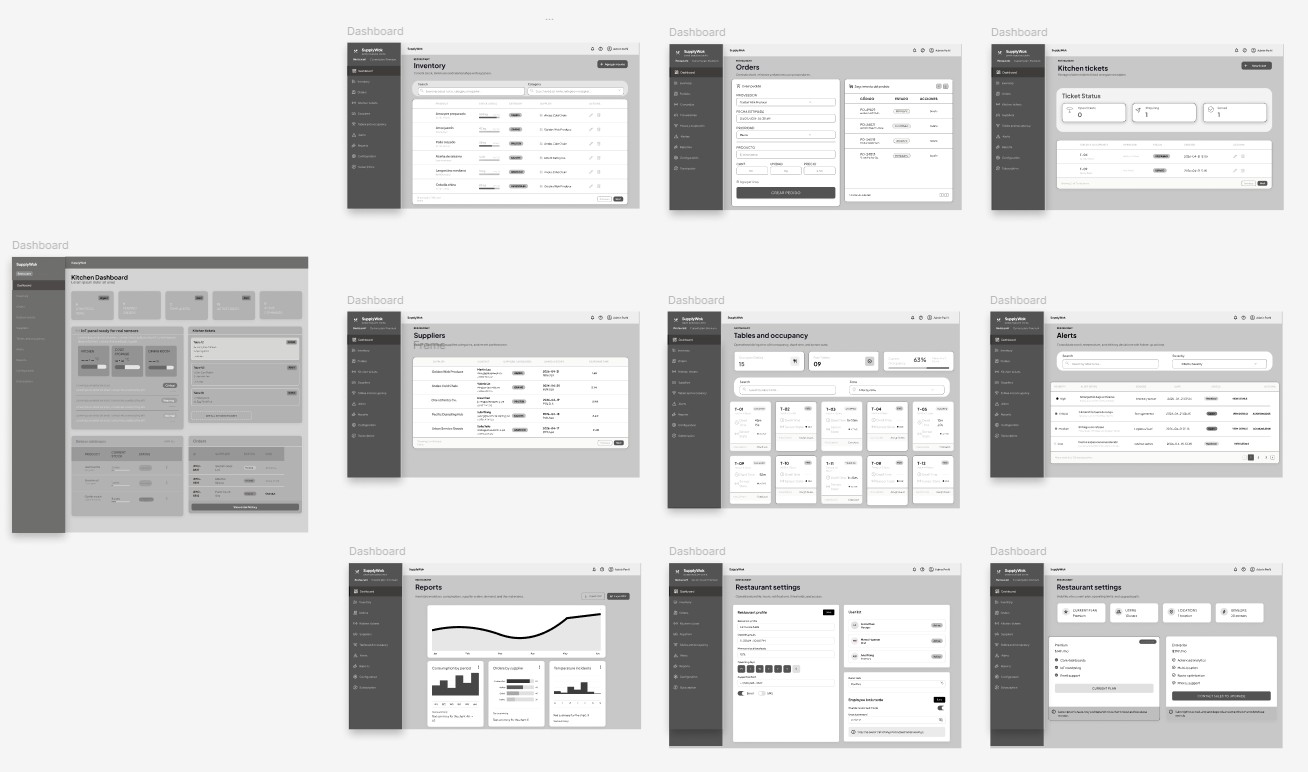
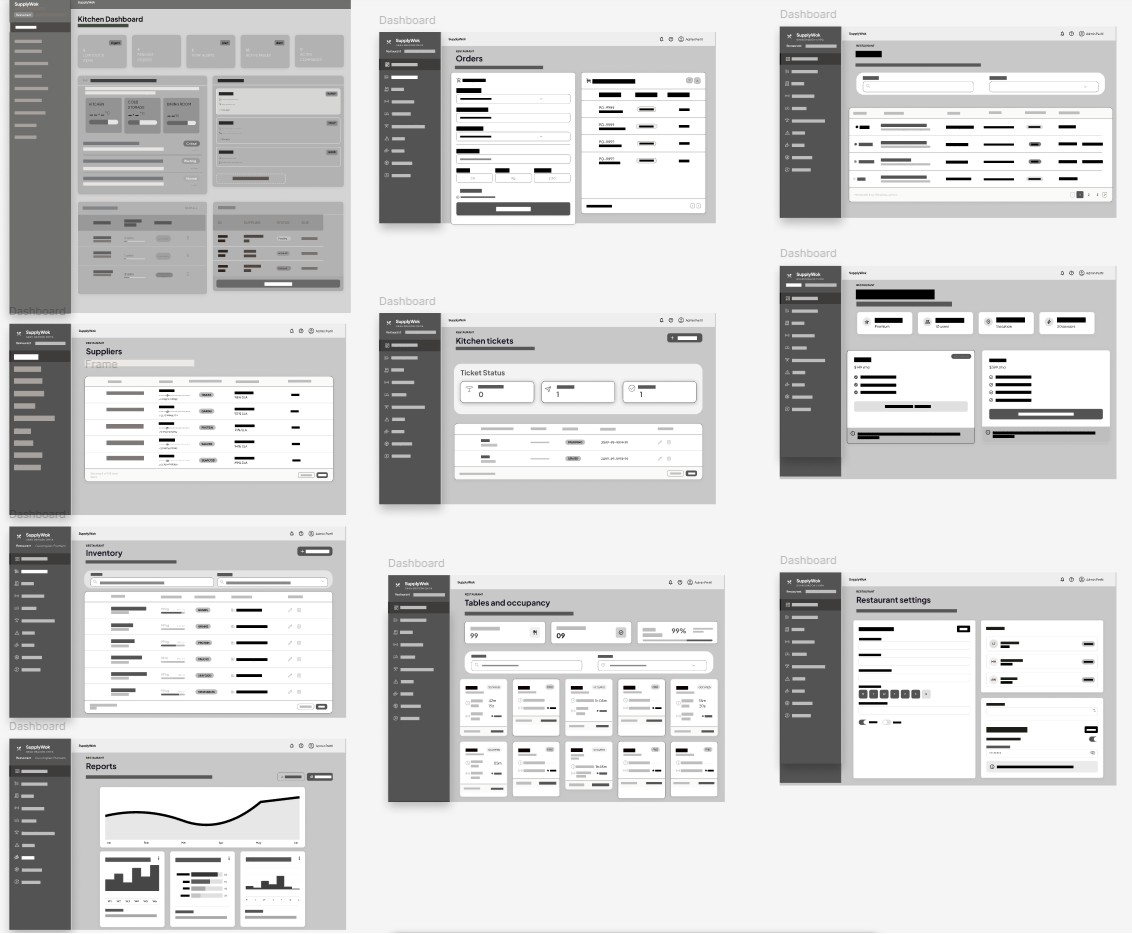
docs(40-chapter-4): update corrected web wireframes

diff --git a/report/front-matter/40-chapter-4-product-design.md b/report/front-matter/40-chapter-4-product-design.md
@@ -555,18 +555,18 @@ En escritorio, los wireframes muestran una estructura con sidebar, header superi
 Los wireflows de SupplyWok muestran cómo cambian las pantallas wireframe a medida que el usuario avanza en un flujo concreto. Cada wireflow se construye a partir de un user goal y representa la secuencia de pasos necesarios para alcanzarlo, incluyendo decisiones intermedias y estados relevantes de la interfaz.
 
 **User Goal 1: Registrar y controlar insumos del restaurante.**  
-Este wireflow representa el recorrido del usuario restaurante desde el acceso al Dashboard hasta el módulo de Inventario, donde puede registrar un nuevo insumo, definir unidad de medida, stock mínimo y proveedor asociado. El flujo permite validar que la pantalla principal, la tabla de inventario y el formulario de creación estén conectados de manera lógica y con mínima fricción.
+El usuario accede a la aplicación y, al no estar logueado, puede optar por crear una nueva cuenta o iniciar sesión. Si selecciona “Crear cuenta”, se abre un formulario donde debe ingresar su nombre, apellidos, correo electrónico y contraseña. En caso de que falte algún campo, la aplicación mostrará un mensaje de advertencia hasta que se completen los datos correctamente. Una vez registrado, se muestra una confirmación y el usuario es redirigido al mapa principal. Si ya posee una cuenta, selecciona “Iniciar sesión” e ingresa sus credenciales. Si estas son incorrectas, el sistema mostrará un mensaje de error. Tras un inicio exitoso, el usuario accede a la pantalla principal con el mapa interactivo y las funciones disponibles.
 
 ![wireflow1](../assets/images/figma/web-app-mobile-wireflow1.jpeg) 
 
 
 **User Goal 2: Crear y dar seguimiento a un pedido de abastecimiento.**  
-Este wireflow muestra cómo el restaurante inicia un pedido desde la sección de Pedidos, selecciona proveedor, agrega productos y revisa el estado del pedido una vez registrado. La secuencia evidencia una organización paso a paso que reduce errores y favorece la trazabilidad de la orden.
+Este wireflow muestra cómo el restaurante inicia un pedido desde la sección de Pedidos, selecciona proveedor, agrega productos y revisa el estado del pedido una vez registrado. Si el usuario no rellena los campos adecuadamente, se muestra un mensaje de error. La secuencia evidencia una organización paso a paso que reduce errores y favorece la trazabilidad de la orden.
 
 ![wireflow](../assets/images/figma/web-app-mobile-wireflow2.jpeg)
 
 **User Goal 3: Gestionar comandas y operación interna del restaurante.**  
-Este wireflow representa el flujo mediante el cual el personal del restaurante registra una comanda, la asocia a una mesa y hace seguimiento a su avance dentro de la operación interna. La estructura permite visualizar con claridad los cambios de estado entre cola, preparación y listo.
+Este wireflow representa el flujo mediante el cual el personal del restaurante registra una comanda, la asocia a una mesa y hace seguimiento a su avance dentro de la operación interna. Empieza desde el dashboard a la pagina de comandas, luego a generar nuevo ticket y dependiendo el tipo de ticket se genera un formulario para crear la solicitud de la comanda, se rellena la solicitud y luego se envia y actualiza.
 
 ![wireflow3](../assets/images/figma/web-app-mobile-wireflow3.jpeg)
 **User Goal 4: Gestionar pedidos recibidos y catálogo del proveedor.**  
